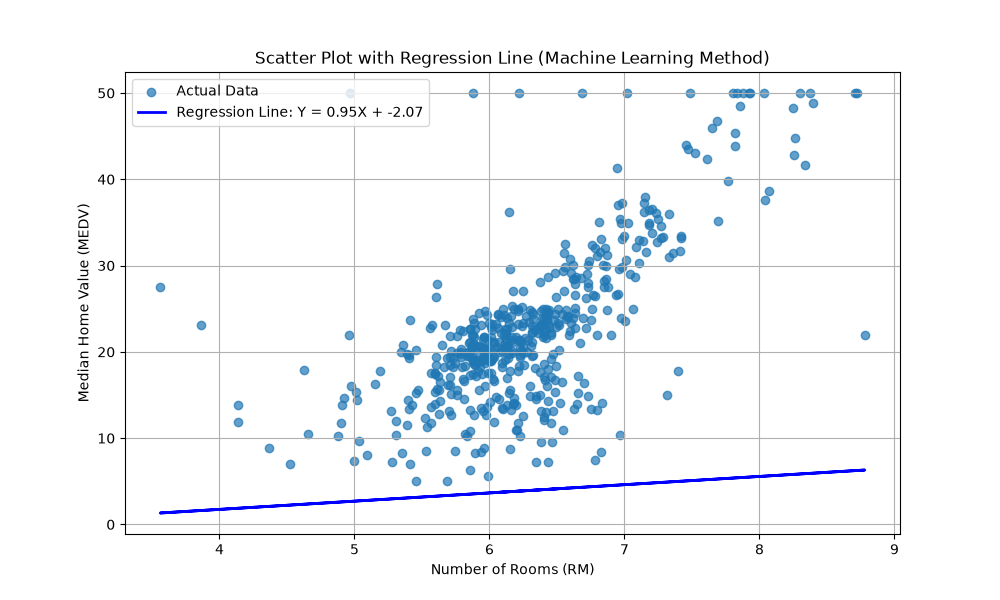
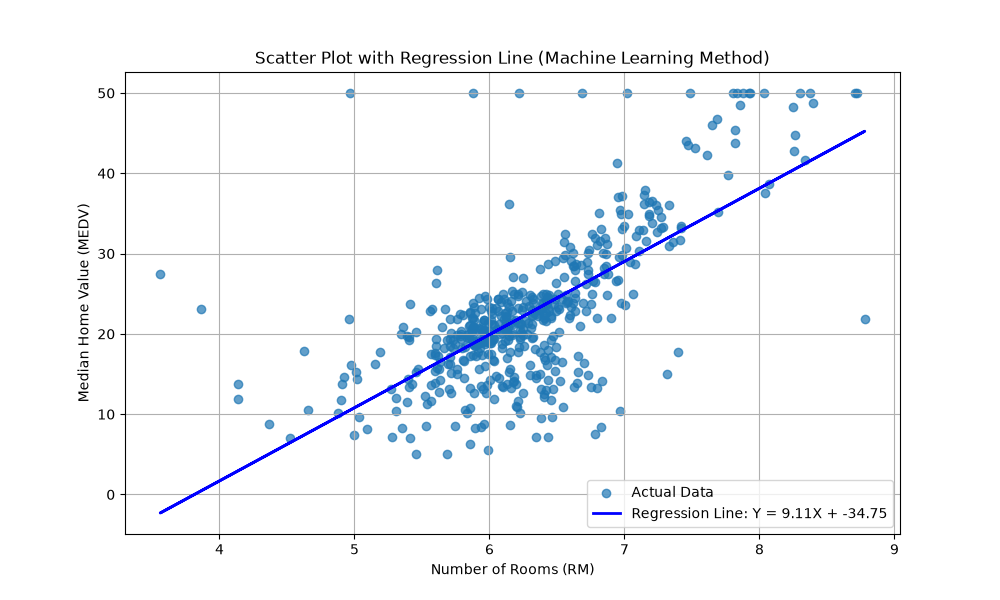
pushing saved models and fixed code

diff --git a/linear_regression_housing.py b/linear_regression_housing.py
@@ -29,7 +29,7 @@ theta_0 = Ybar - theta_1*Xbar
 w = 0.0
 b = 0.0
 learning_rate = 0.024
-epochs = 100
+epochs = 25000
 
 split_ratio = 0.8
 split_index = int(len(X) * split_ratio)
@@ -40,7 +40,7 @@ y_shuffled = Y[indices]
 x_train, x_test = x_shuffled[:split_index], x_shuffled[split_index:]
 y_train, y_test = y_shuffled[:split_index], y_shuffled[split_index:]
 
-n = float(len(X_train))
+n = float(len(x_train))
 
 for epoch in range(epochs):
     y_pred = w*x_train + b
@@ -66,7 +66,7 @@ plt.figure(figsize=(10, 6))
 plt.scatter(X, Y, alpha=0.7, label='Actual Data')
 Y_pred = theta[0] + theta[1] * X
 
-plt.plot(X, Y_pred, color='red', linewidth=2, label=f'Regression Line: Y = {theta[0]:.2f} + {theta[1]:.2f}X')
+plt.plot(X, Y_pred, color='red', linewidth=2, label=f'Regression Line: Y = {theta[1]:.2f}X + {theta[0]:.2f}')
 plt.title('Scatter Plot with Regression Line (Normal Formula Method)')
 plt.xlabel('Number of Rooms (RM)')
 plt.ylabel('Median Home Value (MEDV)')
@@ -79,7 +79,7 @@ yline = theta_0 + theta_1*xline
 
 plt.figure(figsize=(10, 6))
 plt.scatter(X, Y, alpha=0.7, label='Actual Data')
-plt.plot(xline, yline, color='black', linewidth=2, label=f'Regression Line: Y = {theta_0:.2f} + {theta_1:.2f}X')
+plt.plot(xline, yline, color='black', linewidth=2, label=f'Regression Line: Y = {theta_1:.2f}X + {theta_0:.2f}')
 plt.title('Scatter Plot with Regression Line (Probability and Statistics Method)')
 plt.xlabel('Number of Rooms (RM)')
 plt.ylabel('Median Home Value (MEDV)')
@@ -98,3 +98,11 @@ plt.ylabel('Median Home Value (MEDV)')
 plt.grid(True)
 plt.legend()
 plt.savefig('linearreg_ml.png')
+
+
+#Saving the model
+#nump.savetxt('model_weight.txt', w)
+#nump.savetxt('model_bias', b)
+
+nump.savez('linear_regression4.npz', weight=w, bias=b)
+print("Model saved Successfully")